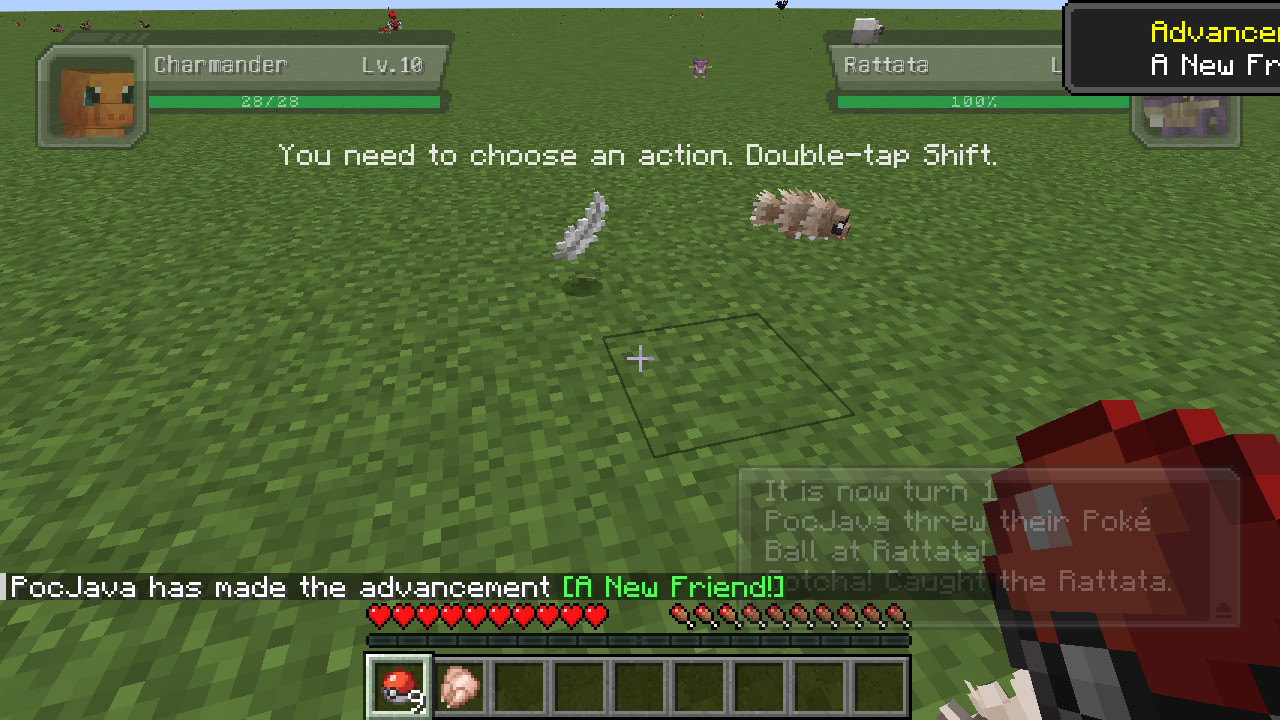
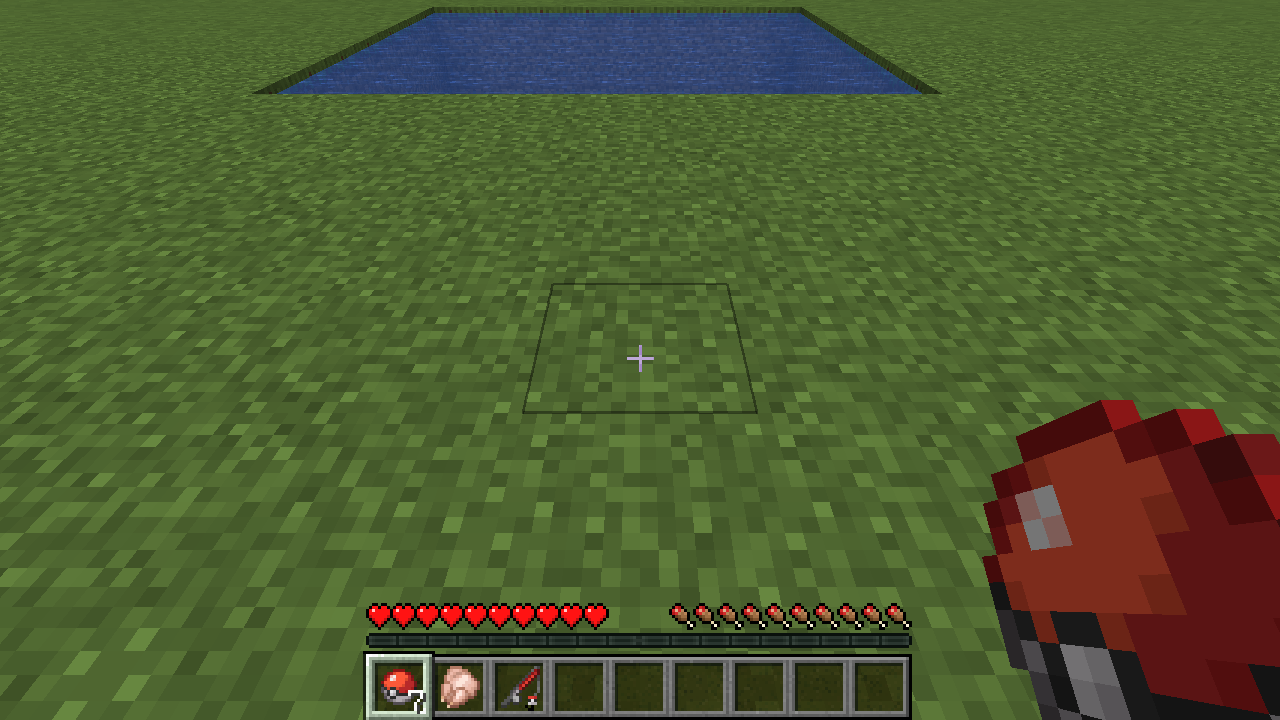
fabric: battle UI gone the moment the wild Pokémon is caught; the ridden Pokémon's head (not the whole model) hidden from its Java rider; client heap 1600M
Claude-Session: https://claude.ai/code/session_013qmVWfL2vttKu2B98Mqwws

diff --git a/fabric/mod/src/main/java/io/github/kahngjoonkoh/cobblemonlink/fabric/BattleUi.java b/fabric/mod/src/main/java/io/github/kahngjoonkoh/cobblemonlink/fabric/BattleUi.java
@@ -62,7 +62,7 @@ public final class BattleUi {
     /** Every second: HP bars and the prompt while the menu is closed. */
     static void tick() {
         for (var ui : new ArrayList<>(OPEN.values())) {
-            if (ui.player.hasDisconnected() || battle(ui.player) == null) {
+            if (ui.player.hasDisconnected() || over(ui.player)) {
                 ui.end();
                 continue;
             }
@@ -71,6 +71,16 @@ public final class BattleUi {
                 ui.player.connection.send(new ClientboundSetActionBarTextPacket(Component.literal(Lang.t(ui.player, Clients.bedrock(ui.player)
                         ? "cobblemonlink.battle.choose_tap" : "cobblemonlink.battle.choose_click"))));
         }
+    }
+
+    /** No battle any more, Cobblemon has ended it, or the wild Pokémon was caught (the battle lingers ~2 s after). */
+    static boolean over(ServerPlayer p) {
+        PokemonBattle b = battle(p);
+        if (b == null || b.getEnded()) return true;
+        for (var a : b.getActors())
+            if (a instanceof com.cobblemon.mod.common.battles.actor.PokemonBattleActor wild)
+                for (var bp : wild.getPokemonList()) if (!bp.getEffectedPokemon().isWild()) return true;
+        return false;
     }
 
     /** The battle the player is in, or watching (Cobblemon's spectating). */
@@ -146,6 +156,10 @@ public final class BattleUi {
     }
 
     private void screenTick() {
+        if (over(player)) { // e.g. a catch: gone the moment Cobblemon ends the battle, not with the next second's check
+            end();
+            return;
+        }
         ticks++;
         boolean sneaking = player.isShiftKeyDown();
         if (sneaking && !wasSneaking) { // double-tap Shift: back to the battle

diff --git a/fabric/mod/src/main/java/io/github/kahngjoonkoh/cobblemonlink/fabric/ModelHolder.java b/fabric/mod/src/main/java/io/github/kahngjoonkoh/cobblemonlink/fabric/ModelHolder.java
@@ -60,14 +60,25 @@ public class ModelHolder extends ElementHolder {
 
     public Entity entity() { return entity; }
 
+    /** The display entities of the head bones and what hangs off them (a rider's first-person camera sits there). */
+    public int[] headIds() {
+        var bones = model.bones();
+        boolean[] head = new boolean[bones.length];
+        java.util.List<Integer> ids = new java.util.ArrayList<>();
+        for (int i = 0; i < bones.length; i++) { // parents come before children
+            head[i] = bones[i].name().toLowerCase(java.util.Locale.ROOT).contains("head") || bones[i].parent() >= 0 && head[bones[i].parent()];
+            if (head[i] && displays[i] != null) ids.add(displays[i].getEntityId());
+        }
+        return ids.stream().mapToInt(Integer::intValue).toArray();
+    }
+
     /** Draw the model this far from the entity (x left, y up, z forward, blocks), e.g. on a shoulder. */
     public void offset(float x, float y, float z) { offset.set(x, y, z); }
 
     /** Only vanilla Java clients: Cobblemon players see Cobblemon's model, Bedrock players GeyserModelEngine's. */
     @Override
     public boolean startWatching(ServerGamePacketListenerImpl h) {
-        // a rider's first-person camera would sit inside the model: hidden from them while they ride (Riding)
-        return Clients.java(h) && h.player.getVehicle() != entity && super.startWatching(h);
+        return Clients.java(h) && super.startWatching(h);
     }
 
     public void setScale(float scale) { this.scale = scale; }

diff --git a/fabric/mod/src/main/java/io/github/kahngjoonkoh/cobblemonlink/fabric/Riding.java b/fabric/mod/src/main/java/io/github/kahngjoonkoh/cobblemonlink/fabric/Riding.java
@@ -20,11 +20,11 @@ final class Riding {
         ServerTickEvents.END_SERVER_TICK.register(server -> {
             for (ServerPlayer p : server.getPlayerList().getPlayers()) {
                 if (p.getVehicle() instanceof PokemonEntity pe && pe.getControllingPassenger() == p && Clients.bridged(p.connection)) move(p, pe);
-                // the model hidden from its rider (ModelHolder.startWatching), back when they get off
+                // the head hidden from its Java rider (their camera sits in it), back when they get off
                 Integer was = RIDDEN.get(p.getUUID()), now = p.getVehicle() instanceof PokemonEntity pe && Clients.java(p.connection) ? pe.getId() : null;
                 if (java.util.Objects.equals(was, now)) continue;
-                if (was != null && Mons.holder(was) != null) Mons.holder(was).startWatching(p.connection);
-                if (now != null && Mons.holder(now) != null) Mons.holder(now).stopWatching(p.connection);
+                if (was != null && Mons.holder(was) != null && Mons.holder(was).stopWatching(p.connection)) Mons.holder(was).startWatching(p.connection);
+                if (now != null && Mons.holder(now) != null) p.connection.send(new net.minecraft.network.protocol.game.ClientboundRemoveEntitiesPacket(Mons.holder(now).headIds()));
                 if (now == null) RIDDEN.remove(p.getUUID()); else RIDDEN.put(p.getUUID(), now);
             }
         });
